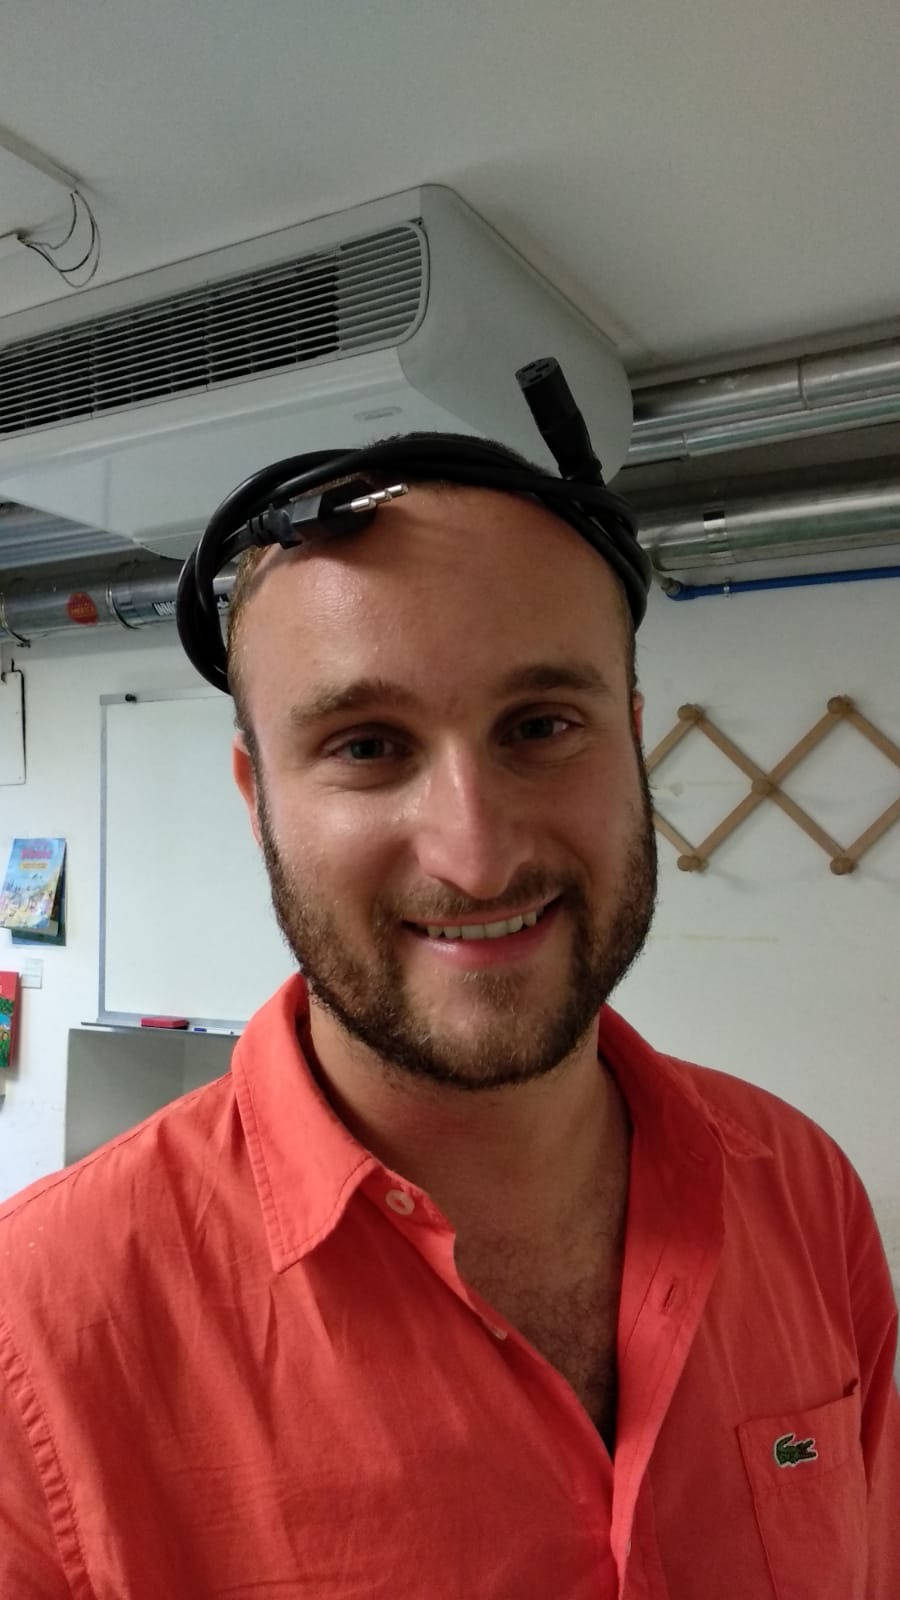
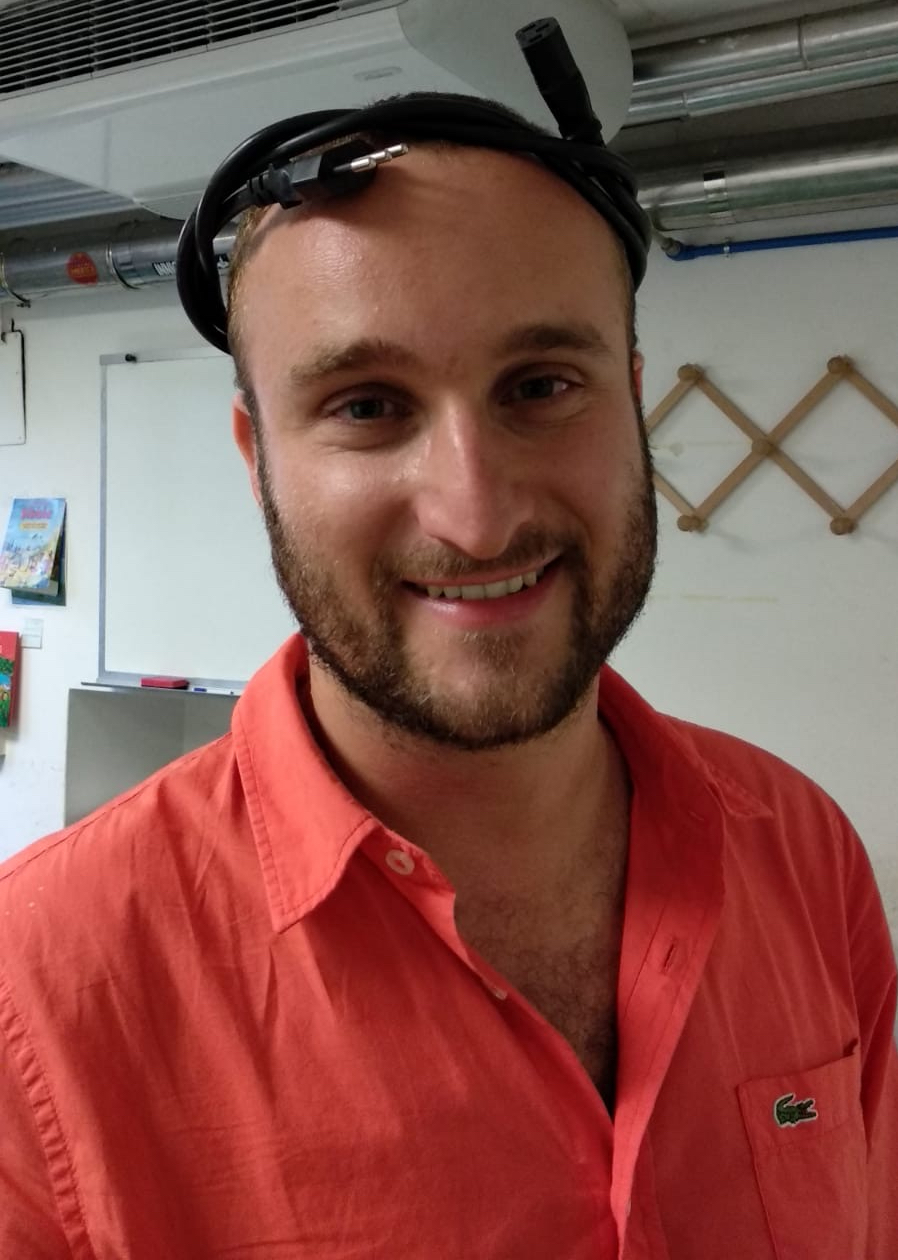
basic refactoring to customize the theme

diff --git a/_layouts/post.html b/_layouts/post.html
@@ -40,7 +40,7 @@ layout: default
     <div class="sharing-icons">
       <a href="https://twitter.com/intent/tweet?text={{ page.title }}&amp;url={{ site.github.url }}{{ page.url }}" target="_blank"><i class="fa fa-twitter" aria-hidden="true"></i></a>
       <a href="https://www.facebook.com/sharer/sharer.php?u={{ site.github.url }}{{ page.url }}&amp;title={{ page.title }}" target="_blank"><i class="fa fa-facebook" aria-hidden="true"></i></a>
-      <a href="https://plus.google.com/share?url={{ site.github.url }}{{ page.url }}" target="_blank"><i class="fa fa-google-plus" aria-hidden="true"></i></a>
+      <a href="mailto:?subject=I wanted you to see this post&amp;body=Check out this site {{ site.github.url }}{{ page.url }}" target="_blank"><i class="fa fa-envelope" aria-hidden="true"></i></a>
     </div>
   </div>
 

diff --git a/assets/css/_sass/_social-icons.scss b/assets/css/_sass/_social-icons.scss
@@ -10,6 +10,7 @@ $pinterest-color: #bd081c;
 $medium-color: #00AB6C;
 $codepen-color: black;
 $rss-color: #ff6600;
+$flickr-color: #ff0084;
 
 @mixin social-media-icon($color, $transition){
   -webkit-transition: $transition;
@@ -75,4 +76,9 @@ $rss-color: #ff6600;
 .fa-rss-square {
   padding: 5px;
   @include social-media-icon($rss-color, $icon-transition-time);
+}
+
+.fa-flickr {
+  padding: 5px;
+  @include social-media-icon($flickr-color, $icon-transition-time);
 }

diff --git a/pages/monitoring.html b/pages/monitoring.html
@@ -1,8 +1,8 @@
 ---
 layout: page
-title: Documentation
+title: Monitoring
 ---
-{% for post in site.categories.documentation %}
+{% for post in site.categories.resources %}
   <a href="{{ site.github.url }}{{ post.url }}">
     <div class="featured-posts" {% if post.image %}style="background-image:url({{ site.github.url }}/assets/img/{{ post.image }})"{% endif %}>
       <h2><span>{{ post.title }}</span></h2>

diff --git a/pages/collaborations.html b/pages/collaborations.html
@@ -1,8 +1,8 @@
 ---
 layout: page
-title: Interesting Facts
+title: Collaborations
 ---
-{% for post in site.categories.facts %}
+{% for post in site.categories.sample %}
   <a href="{{ site.github.url }}{{ post.url }}">
     <div class="featured-posts" {% if post.image %}style="background-image:url({{ site.github.url }}/assets/img/{{ post.image }})"{% endif %}>
       <h2><span>{{ post.title }}</span></h2>

diff --git a/pages/welcome.html b/pages/welcome.html
@@ -1,8 +1,8 @@
 ---
 layout: page
-title: Sample Posts
+title: Welcome
 ---
-{% for post in site.categories.sample %}
+{% for post in site.categories.facts %}
   <a href="{{ site.github.url }}{{ post.url }}">
     <div class="featured-posts" {% if post.image %}style="background-image:url({{ site.github.url }}/assets/img/{{ post.image }})"{% endif %}>
       <h2><span>{{ post.title }}</span></h2>

diff --git a/pages/credits.html b/pages/credits.html
@@ -1,0 +1,11 @@
+---
+layout: page
+title: Credits
+---
+{% for post in site.categories.credits %}
+  <a href="{{ site.github.url }}{{ post.url }}">
+    <div class="featured-posts" {% if post.image %}style="background-image:url({{ site.github.url }}/assets/img/{{ post.image }})"{% endif %}>
+      <h2><span>{{ post.title }}</span></h2>
+    </div>
+  </a>
+{% endfor %}

diff --git a/pages/projects.html b/pages/projects.html
@@ -1,6 +1,6 @@
 ---
 layout: page
-title: Learning Resources
+title: Projects
 ---
 {% for post in site.categories.resources %}
   <a href="{{ site.github.url }}{{ post.url }}">

diff --git a/pages/about.md b/pages/about.md
@@ -1,6 +1,19 @@
 ---
 layout: misc
-title: About
+title: the Author
 ---
 
-Millennial is a minimalist Jekyll theme. The purpose of this theme is to provide a simple, clean, content-focused publishing platform for your publication site or blog. You can find everything you need to get started under documentation. For more information on how to install and use this theme, check out [the documentation]({{ site.github.url }}{% post_url 2016-10-10-getting-started %}).
+<img align="left" src="/assets/img/andreagalle.jpg"  alt="Author profile picture" width="30%" style="vertical-align:middle;margin:0% 5%" />
+
+Hi there! I'm Andrea. I’m an Aerospace Engineer turned programmer. Ever since I first learned how to program while taking a numerical analysis course, I have pursued programming as a passion, and hope as a career. I am currently doing a PhD on Fluid Mechanics at Sapienza University, with a main focus on multiphase turbulent flows. Check out [my GitHub profile](https://github.com/andreagalle) for more information on other projects.
+
+<br> 
+# contact Me 
+The data and informations shared here are completely free and open source software. You may use it however you want, according to the [licenses](http://choosealicense.com/licenses/) under which they are distributed. If you are having any questions or suggestions, feel free to [reach out to me](mailto:andreagalle@hotmail.it?subject=Hey Andrea! What's in The Pipeline?) or visit my [GitHub profile](https://github.com/andreagalle/).
+
+<br> 
+# reading Selection 
+Here below a selection of amazing blog posts and articles that made me think a lot!
+
+<a class="embedly-card" data-card-controls="0" href="https://medium.com/cantors-paradise/richard-feynman-on-the-differences-between-the-future-and-past-9bb1a550519c">Richard Feynman on the Distinction between Future and Past</a>
+<script async src="//cdn.embedly.com/widgets/platform.js" charset="UTF-8"></script>

diff --git a/_posts/2016-04-04-millennial-theme.md b/_posts/2016-04-04-millennial-theme.md
@@ -1,0 +1,12 @@
+---
+layout: post
+title: "Where does this Theme come from ?"
+author: "Paul Le"
+categories: credits
+tags: [sample]
+image: cuba-3.jpg
+---
+
+Millennial is a minimalist Jekyll theme. The purpose of this theme is to provide a simple, clean, content-focused publishing platform for your publication site or blog. You can find everything you need to get started under documentation. For more information on how to install and use this theme, check out [the documentation](https://lenpaul.github.io/Millennial/documentation/getting-started.html).
+
+This theme is completely free and open source software. You may use it however you want, as it is distributed under the [MIT License](http://choosealicense.com/licenses/mit/). If you are having any problems, any questions or suggestions, feel free to [tweet at Paul Le](https://twitter.com/intent/tweet?text=My%question%about%Millennial%is:%&amp;via=paululele), or [file a GitHub issue](https://github.com/lenpaul/Millennial/issues/new).

diff --git a/_posts/2016-05-05-learning-resources.md b/_posts/2016-05-05-learning-resources.md
@@ -1,7 +1,7 @@
 ---
 layout: post
 title: "Learning Resources"
-author: "Paul Le"
+author: "FluBot"
 categories: resources
 tags: [documentation,sample]
 image: arctic-4.jpg

diff --git a/_posts/2020-10-01-welcome-space.md b/_posts/2020-10-01-welcome-space.md
@@ -1,0 +1,9 @@
+---
+layout: post
+title: "What is this Space for ?"
+author: "Andrea Gallegati"
+categories: facts
+tags: [sample]
+image: merlin.jpg
+---
+
